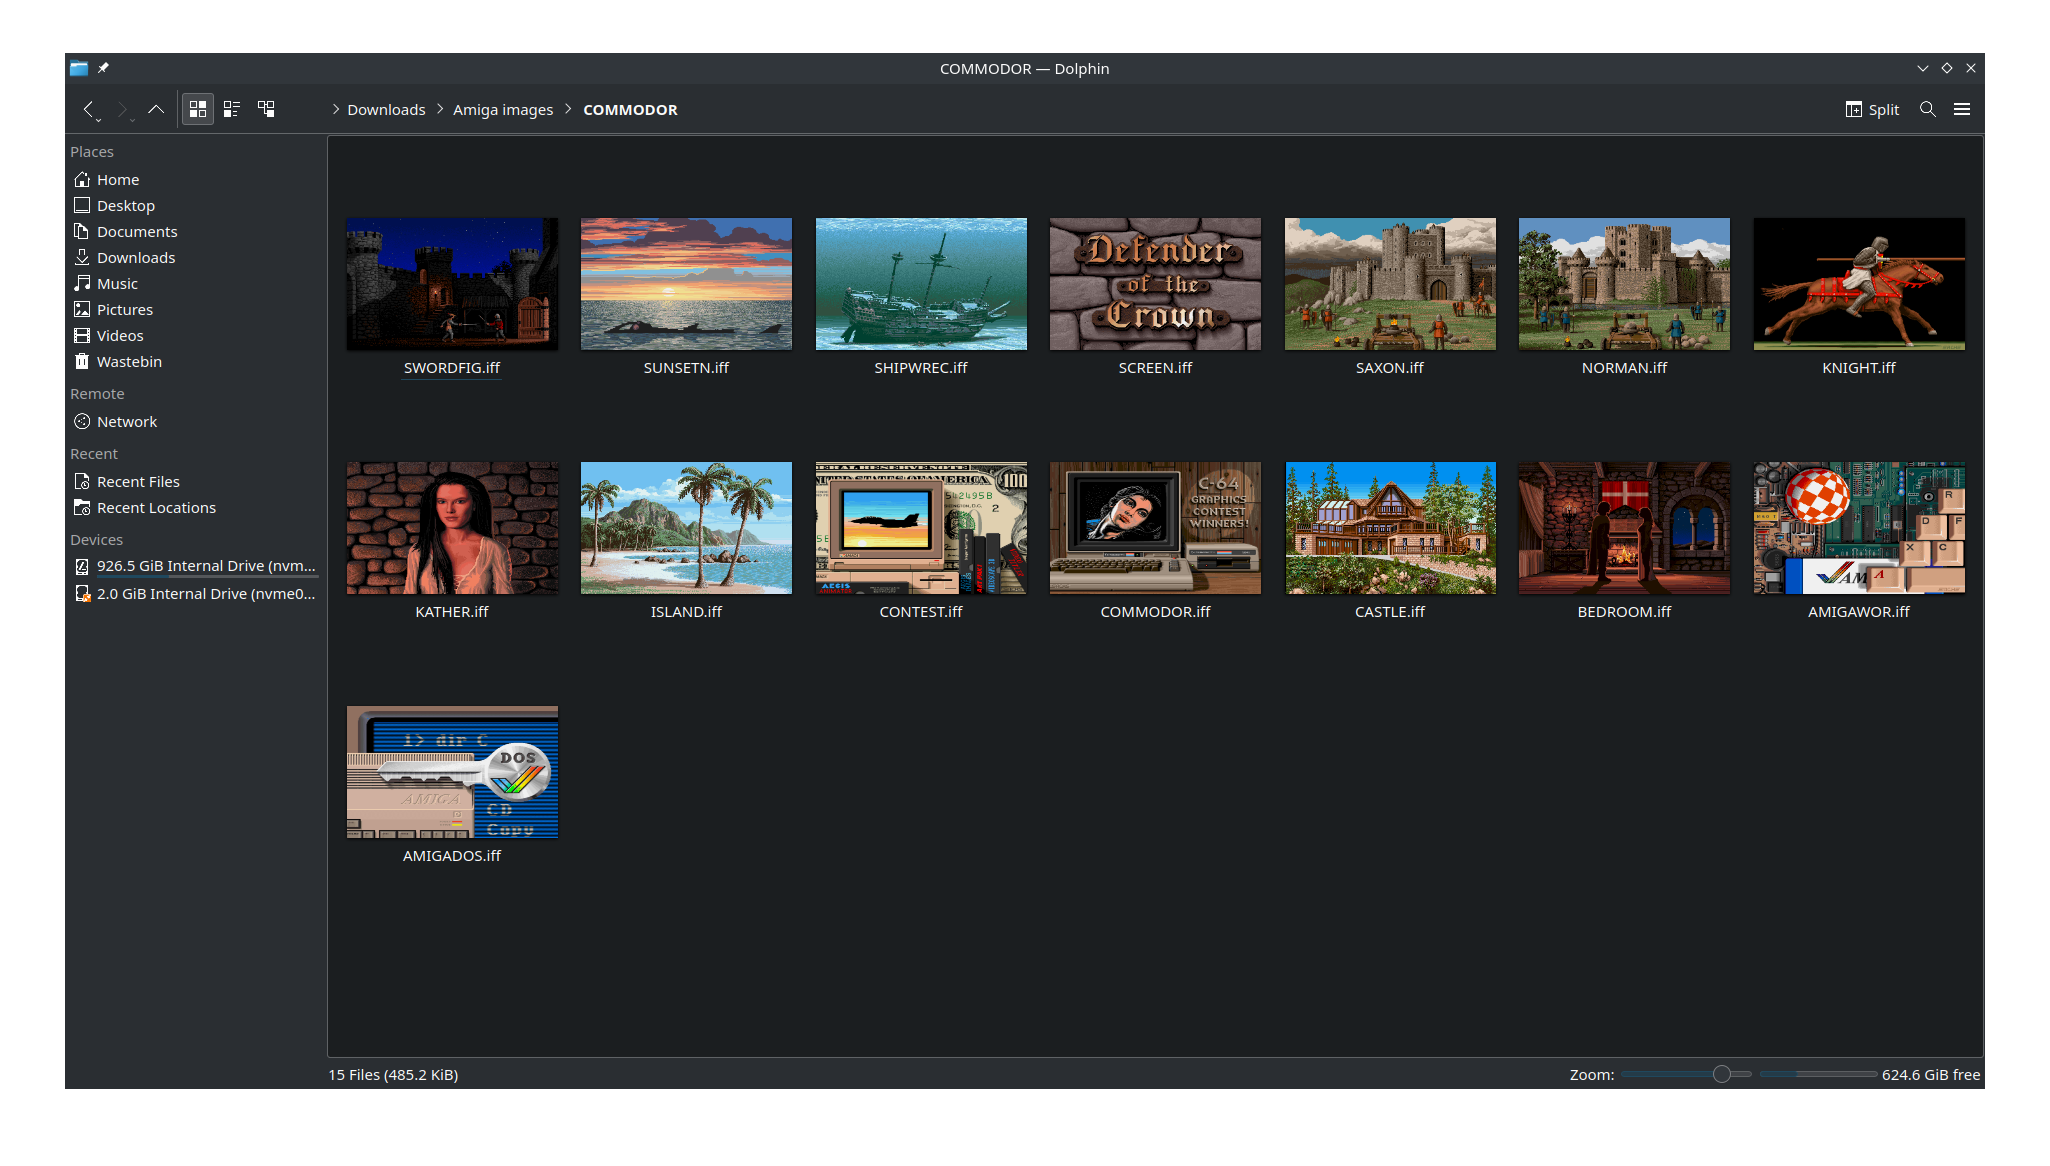
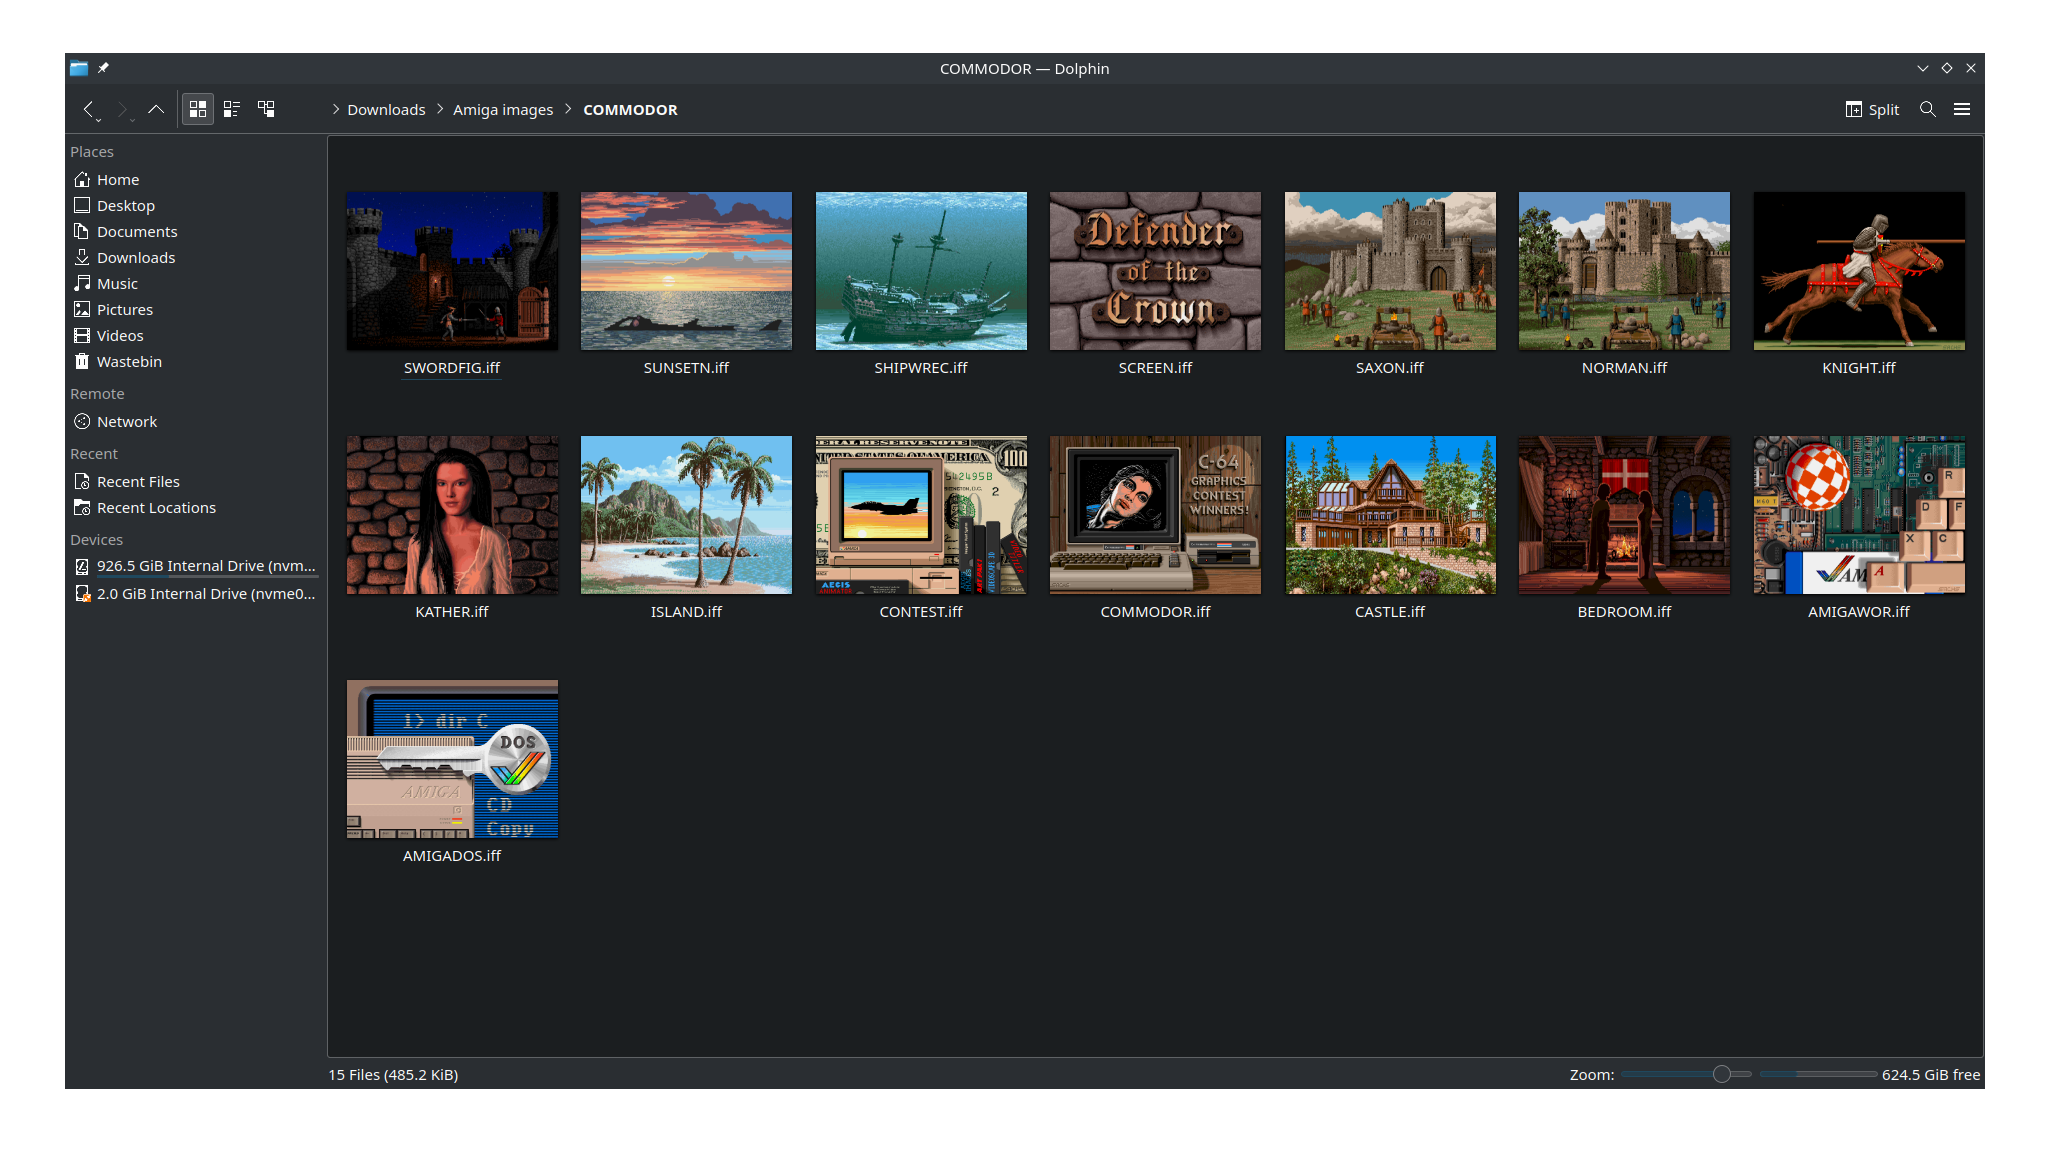
Make aspect ratio for full screen images 4:3 instead of 8:5

Changed region(s): [[0.1561, 0.1544, 0.9678, 0.3087], [0.1561, 0.3705, 0.9678, 0.5249], [0.1561, 0.5557, 0.281, 0.741]]

diff --git a/ilbmcreator.cpp b/ilbmcreator.cpp
@@ -42,16 +42,18 @@ bool IlbmCreator::create(const QString &path, int width, int height, QImage &img
         Magick::Geometry oldsize;
         image.read(path_string);
         oldsize = image.size();
-        if (oldsize.width() / oldsize.height() >= 3)
+        size_t owidth = oldsize.width();
+        // Correct aspect on full size images to 4:3
+        if (owidth == 1280 || owidth == 640 || owidth == 320)
         {
             oldsize.aspect(true);
-            oldsize.height(oldsize.height() * 2);
-            image.resize(oldsize);
-        }
-        else if (oldsize.width() / oldsize.height() < 1)
-        {
-            oldsize.aspect(true);
-            oldsize.width(oldsize.width() * 2);
+            // 320x400 for example
+            if (owidth < oldsize.height())
+            {
+                owidth *= 2;
+                oldsize.width(owidth);
+            }
+            oldsize.height(owidth * 3 / 4);
             image.resize(oldsize);
         }
         image.scale(Magick::Geometry(width, height));

diff --git a/README.md b/README.md
@@ -2,7 +2,7 @@
 
 This is a plugin for KDE Plasma to provide thumbnail support for Amiga IFF / ILBM files in Dolphin.
 
-It not only resizes the IFF image for thumbnails, but it corrects the height/width for double height / width pixel images (ie. 640x200 gets stretched to 640x400 first).
+It not only resizes the IFF image for thumbnails, but it corrects the aspect ratio for full screen images to 4:3 (ie. 640x200 gets stretched to 640x480 first, 320x400 becomes 640x480).
 
 ![Dolphin example](pics/thumbs.png)
 
